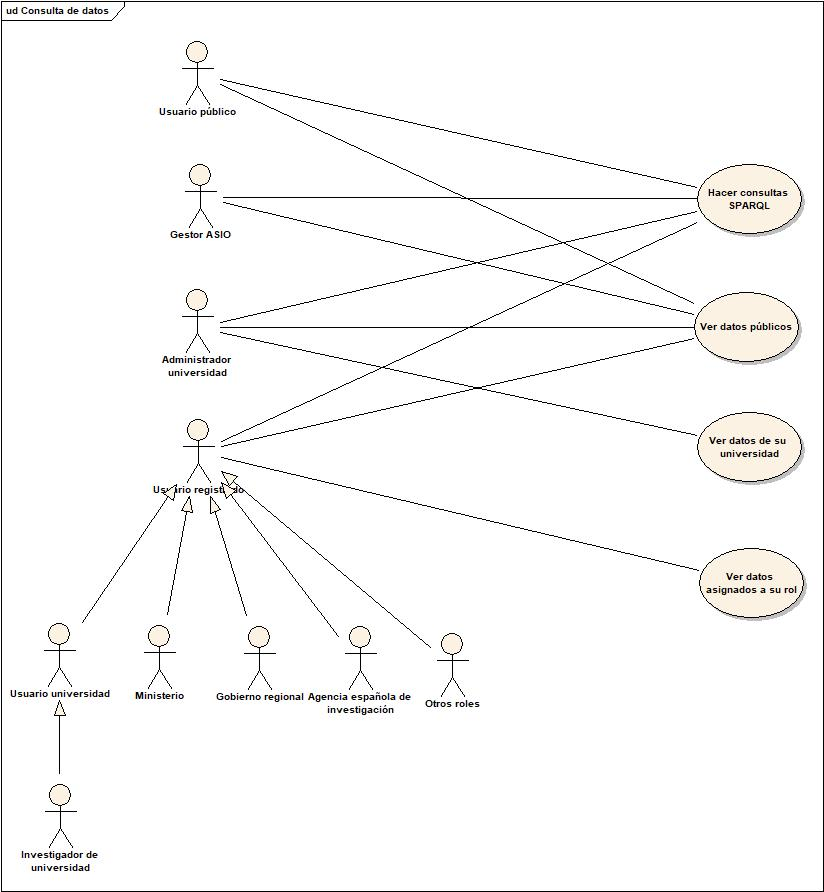
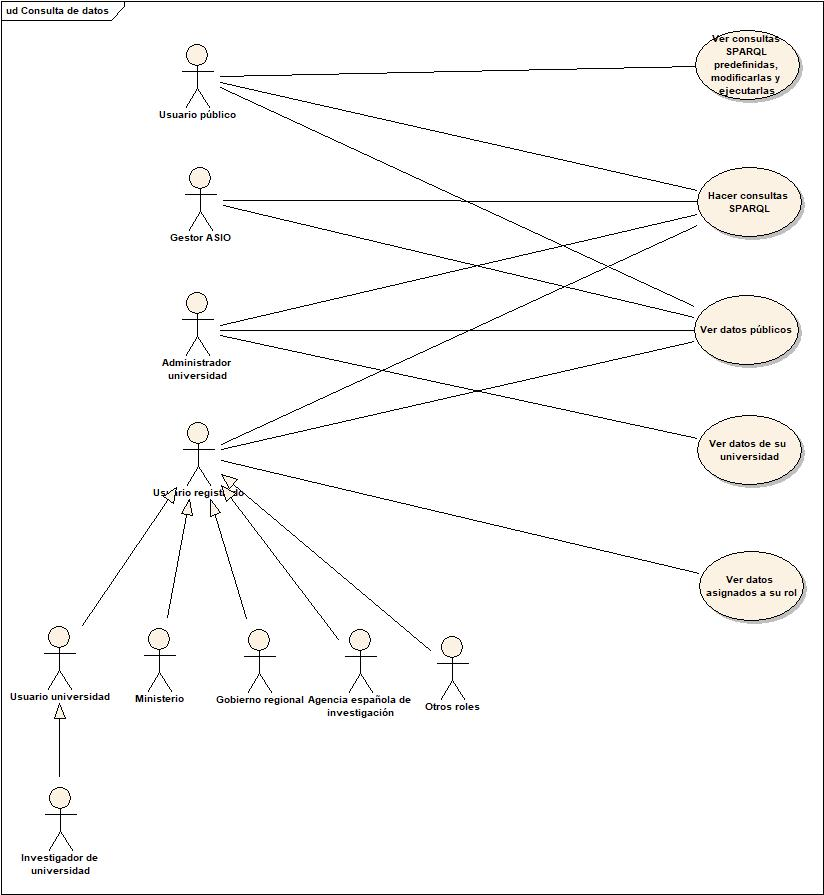
[SEMANTMURC-9] Tome de requisitos Casos de uso actualizados y más requisitos

diff --git a/Análisis/Requisitos funcionales.md b/Análisis/Requisitos funcionales.md
@@ -107,42 +107,16 @@
 |        | En la pantalla de consultas SPARQL, un usuario podrá ver el resultado de las consultas de agregación de los campos que no son visibles para él, por ejemplo, una suma, pero no podrá ver estos datos en detalle. |           |
 |        | Se dispondrá de un servicio donde las máquinas puedan hacer consultas mediante GET/POST, con negociación de contenido: En el caso de que una máquina haga un GET con cabeceras Accept de HTML, esa consulta aparecerá ejecutada en el formulario web y con resultado. Por ejemplo: https://query.wikidata.org/#SELECT%20%2a%0AWHERE%20%7B%0A%20%3Fs%20%3Fp%20%3Fo%0A%7D%0ALIMIT%ste |           |
 |        | El servicio para que las máquinas realicen consultas describirá el endpoint de la manera más rica posible, utilizando vocabularios como VoID y SPARQL Service Description, para que el endpoint sea lo más “descubrible” posible (Aranda 2013). |           |
-|        | La aplicación web tendrá la opción de ver estadísticas generales sobre los datos. |           |
-|        | La aplicación web tendrá la opción de realizar dumps de datos para descargar. |           |
-|        | La aplicación web tendrá la opción de mostrar para cada Named Graph, una renderización de sus metadatos: DCAT, VoID,PROV, y cualquier otro metadato destacable. |           |
-|        | La aplicación web tendrá la opción de ver ejemplos de consultas SPARQL sobre los datos almacenados y cómo ejecutarlas. |           |
-|        | La aplicación web tendrá un URI Lookup Service (desarrollado en otro proyecto) para buscar URIs de entidades, a través del contenido de las URIs y a través del contenido de propiedades como rdfs:label o rdfs:comment (Las propiedades a usar serán configurables). |           |
-|        | Existirá un URI Lookup Service con interfaz para máquinas para buscar URIs de entidades, a través del contenido de las URIs y a través del contenido de propiedades como rdfs:label o rdfs:comment (Las propiedades a usar serán configurables). |           |
-|        | La aplicación web tendrá enlaces a repositorios GitHub (Plataforma Backend SGI, módulos, Test suites, Datasets, especificaciones). |           |
-|        | La aplicación web tendrá enlaces a validadores y a resultados de validación: validación de datos y validación de principios FAIR (Infraestructura Ontológica). |           |
-|        | La aplicación web tendrá una lista de los backends SGI en activo |           |
-|        | Se podrán consultar los datos de contacto en la aplicación web. |           |
-|        | La aplicación web mostrará la información del contrato de URIs. |           |
-|        | La aplicación web mostrará información sobre el proyecto Hércules y sus objetivos. |           |
-|        | Los anteriores 10 requisitos se intentarán generar de la forma más automática posible. |           |
-|        |                                                              |           |
-
-
-
-## Datos
-
-
-
-| Código | Requisito                                                    | Prioridad |
-| ------ | ------------------------------------------------------------ | --------- |
-|        | Los datos dispondrán de un identificador único y persistente |           |
-|        | Los datos deben ser descritos con metadatos descriptivos     |           |
-|        | Los metadatos incluyen clara y explícitamente el identificador de los datos que describen. |           |
-|        | Los datos se registran o indexan en un recurso con capacidad búsqueda. |           |
-|        | Los metadatos serán accesibles incluso cuando los datos ya no se encuentren disponibles |           |
-|        | Los (Meta) datos usan un lenguaje formal, accesible, compartido y ampliamente aplicable para la representación del conocimiento. |           |
-|        | Los (Meta) datos usan vocabularios que siguen los principios FAIR |           |
-|        | Los (Meta) datos incluyen referencias calificadas a otros (Meta) datos. |           |
-|        | Los (meta) datos se publican con una licencia de uso de datos clara y accesible. |           |
-|        | Los (Meta) datos están asociados con información detallada sobre procedencia. |           |
-|        | Los (Meta) datos cumplen con los estándares de la comunidad relevantes para el dominio. |           |
+|        | Páginas web de documentación: La aplicación web tendrá la opción de ver estadísticas generales sobre los datos. |           |
+|        | Páginas web de documentación: La aplicación web tendrá la opción de realizar dumps de datos para descargar. |           |
+|        | Páginas web de documentación: La aplicación web tendrá la opción de mostrar para cada Named Graph, una renderización de sus metadatos: DCAT, VoID,PROV, y cualquier otro metadato destacable. |           |
+|        | Páginas web de documentación: La aplicación web tendrá la opción de ver ejemplos de consultas SPARQL sobre los datos almacenados y cómo ejecutarlas. |           |
+|        | Páginas web de documentación: La aplicación web tendrá enlaces a repositorios GitHub (Plataforma Backend SGI, módulos, Test suites, Datasets, especificaciones). |           |
+|        | Páginas web de documentación :La aplicación web tendrá enlaces a validadores y a resultados de validación: validación de datos y validación de principios FAIR (Infraestructura Ontológica). |           |
+|        | Páginas web de documentación: La aplicación web tendrá una lista de los backends SGI en activo |           |
+|        | Páginas web de documentación: Se podrán consultar los datos de contacto en la aplicación web. |           |
+|        | Páginas web de documentación: La aplicación web mostrará la información del contrato de URIs. |           |
+|        | Páginas web de documentación: La aplicación web mostrará información sobre el proyecto Hércules y sus objetivos. |           |
 |        |                                                              |           |
 |        |                                                              |           |
-|        |                                                              |           |
-|        |                                                              |           |
-|        |                                                              |           |
+

diff --git a/Análisis/Requisitos no funcionales.md b/Análisis/Requisitos no funcionales.md
@@ -19,6 +19,7 @@
 |        | Escalabilidad de los datos: el sistema debe garantizar que los datos a manejar pueden alcanzar volúmenes importantes y deben ser soportados por la arquitectura prevista. Se debe plantear arquitecturas escalables. |           |
 |        | Facilidad para integración de nuevas fuentes de datos: el software debe estar preparado para incorporar nuevas fuentes de datos no contempladas en este punto. Debe ser sencilla la incorporación de nuevos módulos que permitan la comunicación con otros sistemas |           |
 |        | El interfaz de usuario del sistema gestor de datos será lo más usable y ligero posible, y estará orientado a que los expertos del dominio GI puedan realizar la gestión y publicación de datos. |           |
+|        |                                                              |           |
 
 
 
@@ -30,7 +31,7 @@
 | ------ | ------------------------------------------------------------ | --------- |
 |        | Se usará el logo y la tipografía de Hercules para crear un diseño a partir de estos datos. |           |
 |        | El interfaz del software debe encajar con el aspecto y grado de accesibilidad y usabilidad del resto de herramientas software desplegadas en el framework de la Universidad de Murcia. |           |
-|        |                                                              |           |
+|        | Las páginas web de documentación se intentarán generar de la forma más automática posible. |           |
 |        |                                                              |           |
 
 ## Backend
@@ -67,16 +68,32 @@
 
 
 
+## Validación de publicación de datos
+
+
+
+| Código | Requisito                                                    | Prioridad |
+| ------ | ------------------------------------------------------------ | --------- |
+|        | Se crearán un Test Suite que consistirá en una serie de peticiones HTTP a ejecutar contra el sistema con una casuística lo más diversa y exhaustiva posible. |           |
+|        | Se crearán y realizarán pruebas de carga (Peticiones simúltaneas, consultas complejas, etc.) |           |
+|        | En los test se intentarán comprobar los requisitos del sistema. |           |
+|        | Los test se realizarán con los datos de Datasets de referencia Hércules. |           |
+|        | El Test suite ha de ser fácil de modificar y configurar, para que los técnicos de la UM puedan ejecutarlo, añadir tests nuevos o modificar tests existentes con datos y configuraciones nuevas |           |
+|        | El Test Suite constará de documentación para facilitar su extensión y modificación. |           |
+|        | Se pueden usar como referencia para algunos test *Linked Data Platform Test Suite*:<br />- https://github.com/w3c/ldp-testsuite<br />- https://github.com/opendata-euskadi/LinkedDataTestSuite |           |
+
+
+
 ## Generador de URIS
 
 
 
-| Código | Requisito | Prioridad |
-| ------ | --------- | --------- |
-|        |           |           |
-|        |           |           |
-|        |           |           |
-|        |           |           |
-|        |           |           |
-|        |           |           |
-|        |           |           |
+| Código | Requisito                                                    | Prioridad |
+| ------ | ------------------------------------------------------------ | --------- |
+|        | Existirá un URI Lookup Service (desarrollado en otro proyecto) con interfaz para máquinas (Rest services) para buscar URIs de entidades, a través del contenido de las URIs y a través del contenido de propiedades como rdfs:label o rdfs:comment (Las propiedades a usar serán configurables). |           |
+|        |                                                              |           |
+|        |                                                              |           |
+|        |                                                              |           |
+|        |                                                              |           |
+|        |                                                              |           |
+|        |                                                              |           |

diff --git a/Análisis/Análisis.md b/Análisis/Análisis.md
@@ -1,10 +1,20 @@
 # Análisis ASIO
 
+
+
+
+
+## Introducción y objetivos
+
 El presente documento corresponde al Análisis de Requisitos para la Red de Ontologías Hércules (ROH) de acuerdo al pliego de condiciones del proyecto: Servicio de I+D consistente en el desarrollo de soluciones innovadoras para la Universidad de Murcia en relación al reto de Arquitectura semántica e Infraestructura ontológica.  
 
 En dicho pliego se indica: "El adjudicatario hará un análisis sobre el dominio GI, extrayendo los requisitos para crear la ROH. Estos requisitos se reflejarán en el documento Análisis de Requisitos. Este análisis será lo más exhaustivo posible, intentando capturar el dominio con la granularidad adecuada, ya que sentará la base de los demás desarrollos." 
 
 El documento seguirá la estructura de documentación Arc421 para arquitecturas del software, dado que permite cubrir las principales necesidades de este tipo de proyectos. Dado que en este caso, se trata de los requisitos de la infraestructura ontológica, se ha suprimido el apartado "Vista de ejecución" que suele ser habitual cuando se desarrolla software que va a ejecutarse. De la misma forma, el apartado "Vista de despliegue" se ha renombrado como "Vista de implementación y despliegue" para tratar los aspectos de desarrollo de la infraestructura ontológica. 
+
+
+
+
 
 [Casos de uso](./Casos de uso.md)
 

diff --git a/Análisis/Casos de uso.md b/Análisis/Casos de uso.md
@@ -55,9 +55,14 @@ El propio sistema lanzará un proceso con una frecuencia que podrá ser editada 
 
 ### Visualización de contenidos
 
-Todos los usuarios podrán acceder a la pantalla de consultas y hacer consultas en formato SPARQL, también verán las consultas predeterminadas de su rol. En los resultados de la consulta sólo se mostrarán los datos visibles para su rol (configurado por el usuario administrador de universidad), pero si la consulta es una agregación, si se tendrán en cuenta estos datos.
+Todos los usuarios podrán acceder a la pantalla de consultas y hacer consultas en formato SPARQL, también verán las consultas predeterminadas de su rol y podrán modificarlas. En los resultados de la consulta sólo se mostrarán los datos visibles para su rol (configurado por el usuario administrador de universidad), pero si la consulta es una agregación, si se tendrán en cuenta estos datos.
 
-![Visualización de contenidos](./images/visualización de contenidos.JPG)
+![visualización de contenidos](./images/visualización de contenidos.JPG)
 
 
 
+## Página web de documentación
+
+La aplicación web permitirá ver las diferentes documentaciones disponibles 
+
+![pagina web de documentación](./images/pagina web de documentación.JPG)
